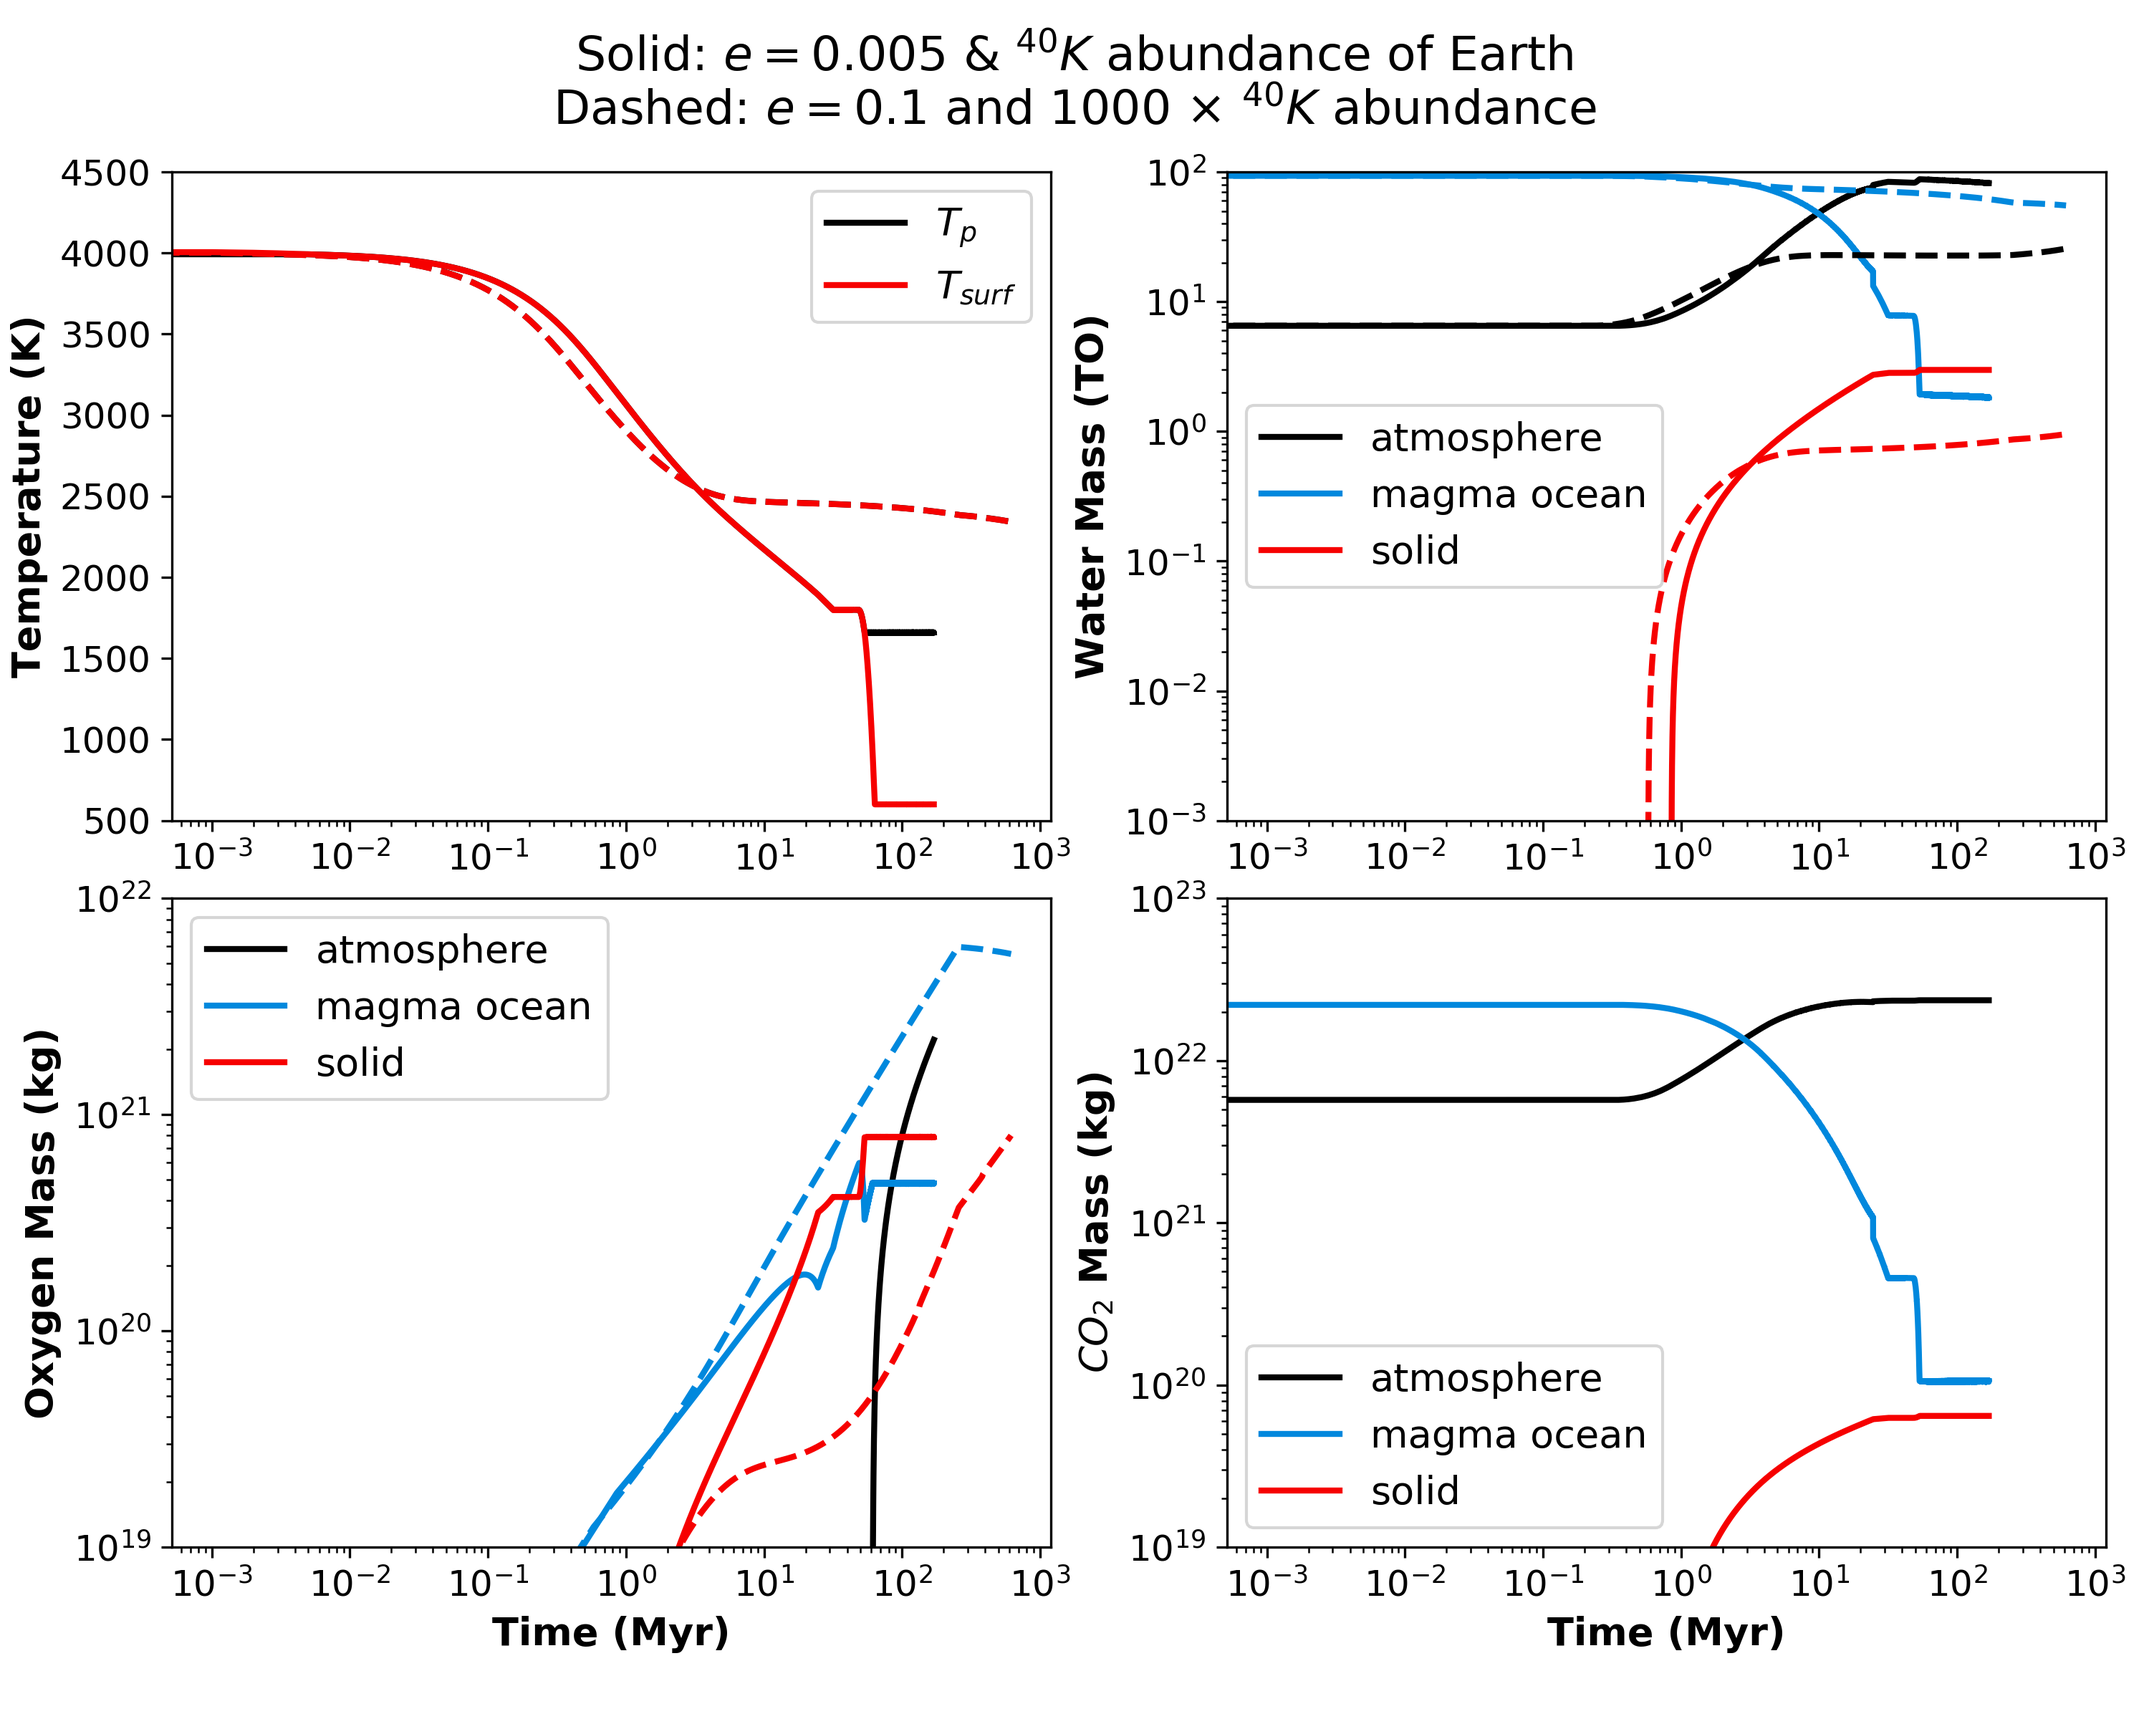
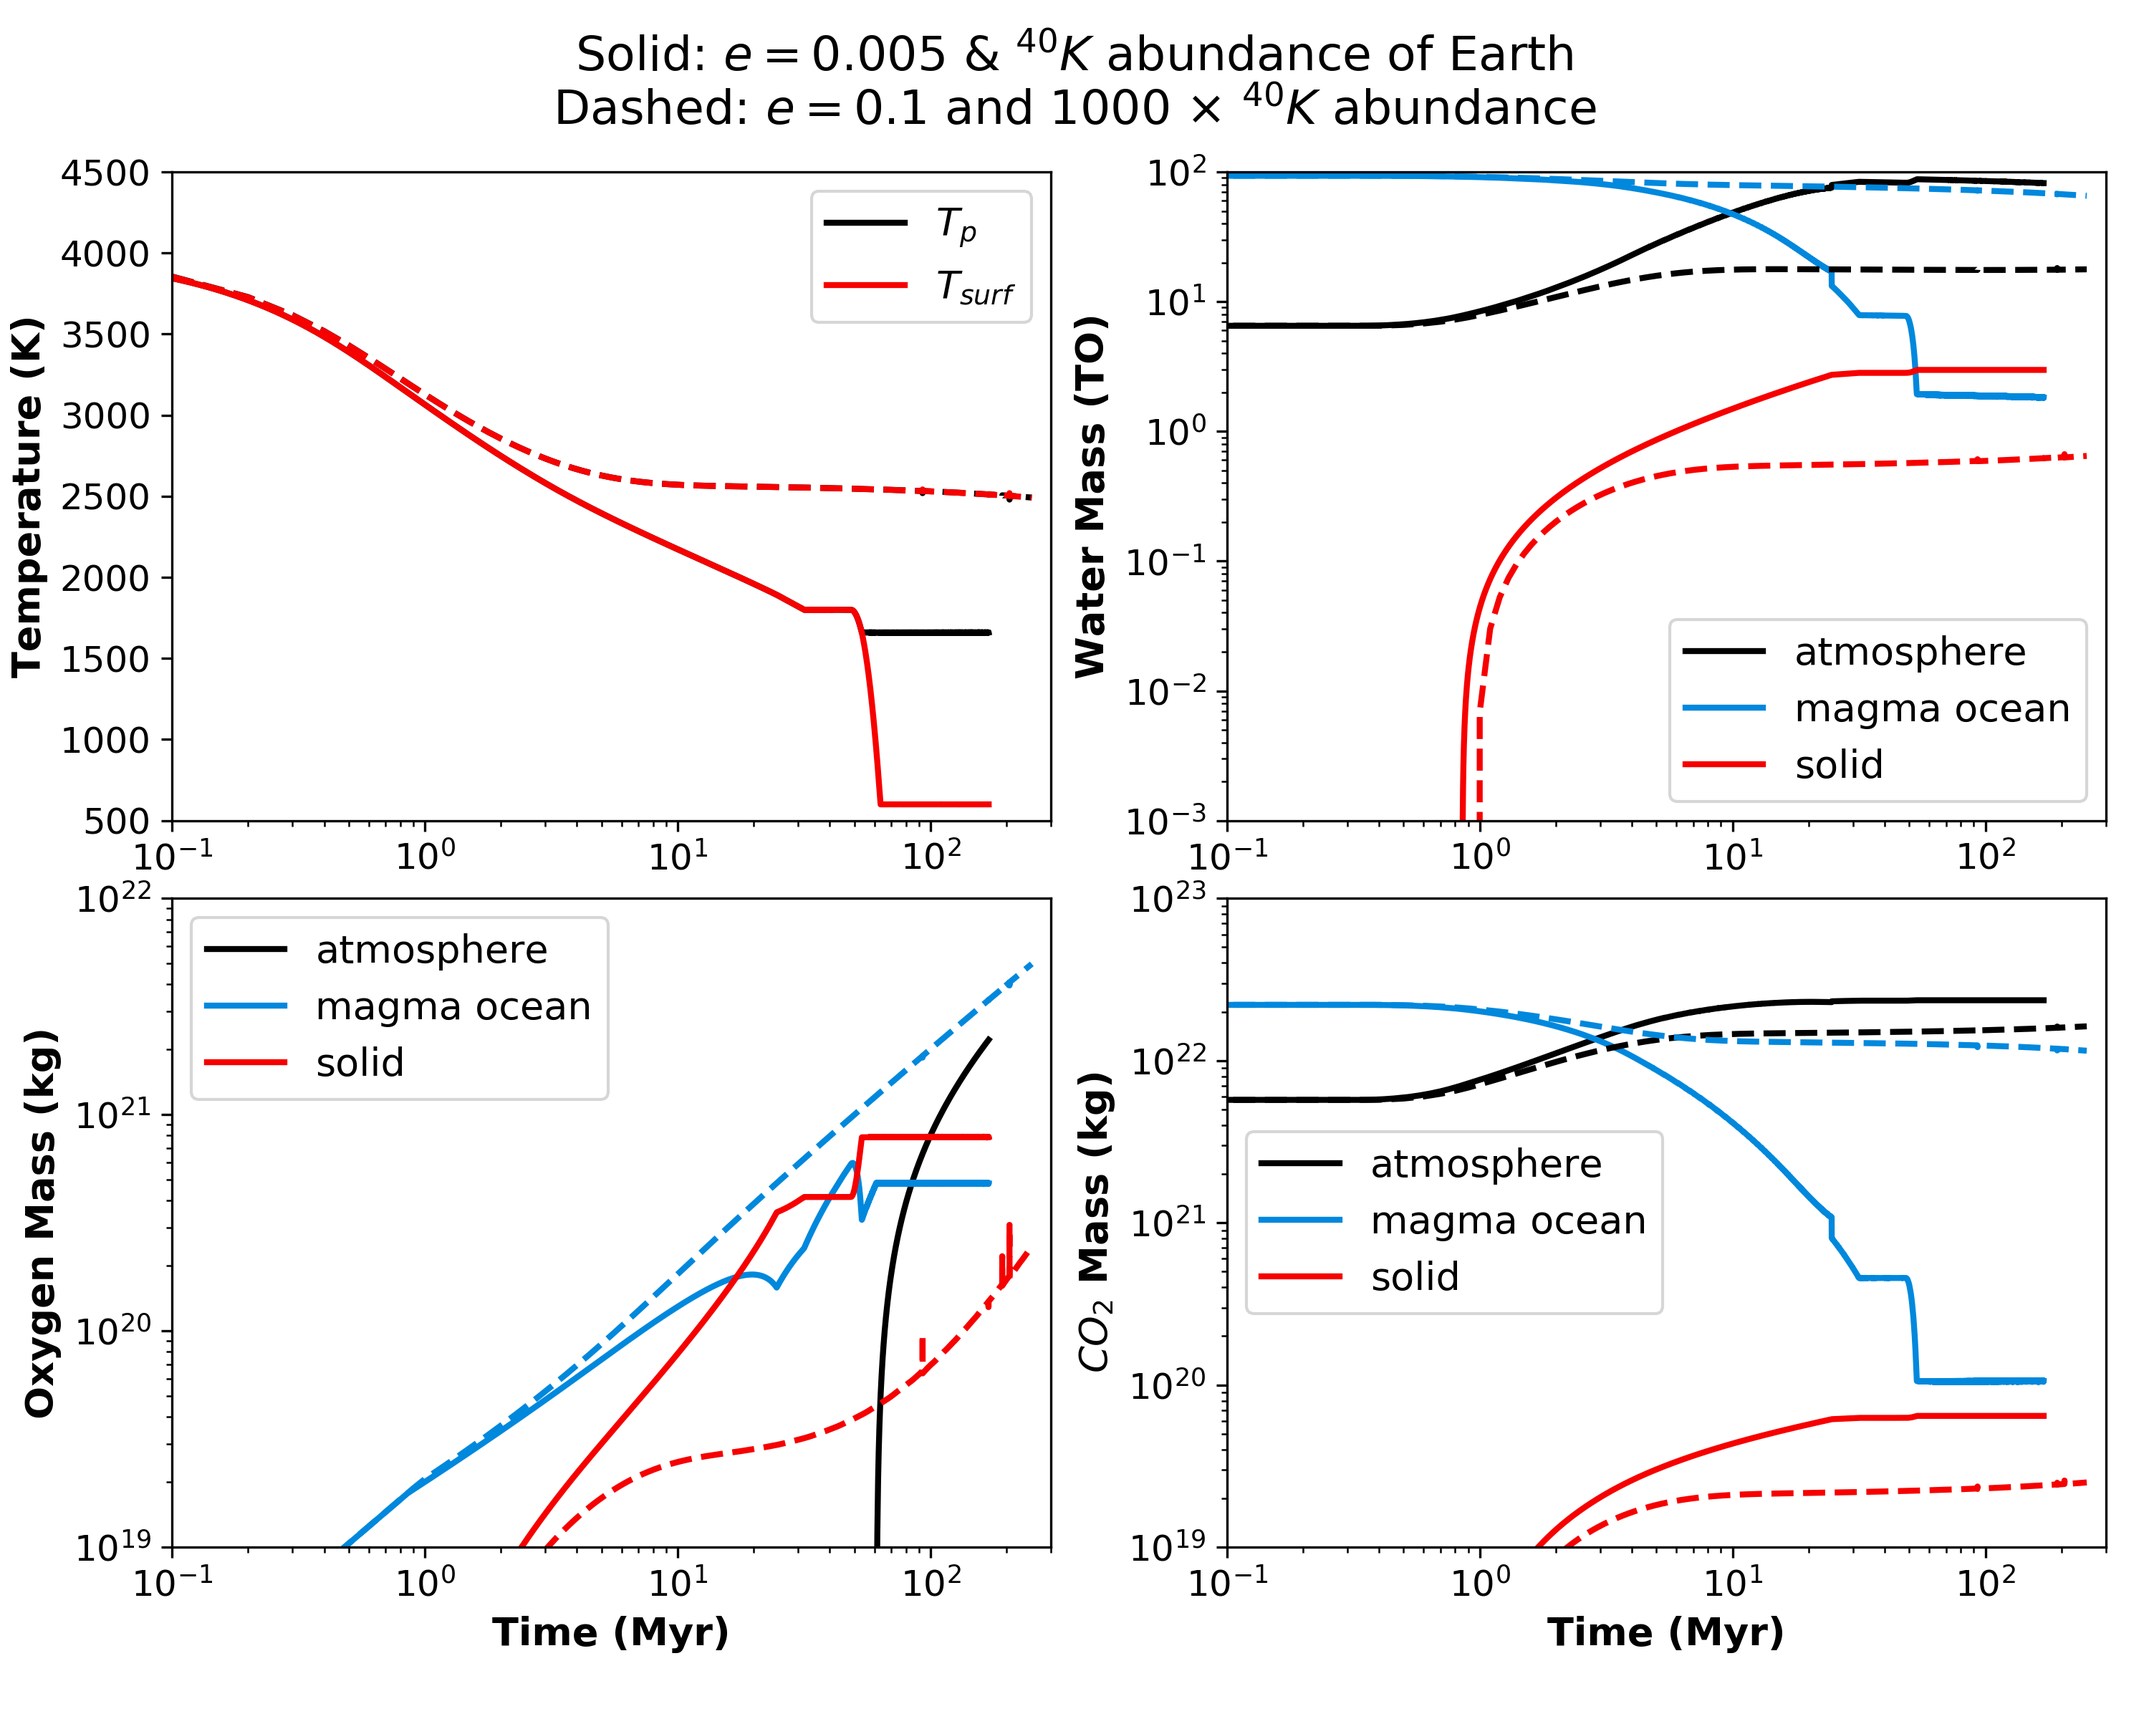
added 100TO heated runs with CO2

diff --git a/Fig_Trappist1e_Compare/plot_trappist_comp_volatile.py b/Fig_Trappist1e_Compare/plot_trappist_comp_volatile.py
@@ -60,6 +60,10 @@ M_O_mo_2      = data_2[:,6] # mass of oxygen in magma ocean + atmosphere (kg)
 M_O_sol_2     = data_2[:,7] # mass of oxygen in solid mantle (kg)
 Press_H2O_2   = data_2[:,8] # partial pressure water in atmopshere (bar)
 Press_O_2     = data_2[:,9] # partial pressure oxygen in atmosphere (bar)
+M_CO2_mo_2    = data_2[:,19] # mass of CO2 in magma ocean + atmosphere (kg)
+M_CO2_sol_2   = data_2[:,20] # mass of CO2 in solid mantle (kg)
+Press_CO2_2   = data_2[:,21] # pressure CO2 in atmopshere (bar)
+Frac_CO2_2    = data_2[:,22] # CO2 fraction in magma ocean
 
 n_time_1 = len(time_1)
 n_time_2 = len(time_2)
@@ -88,7 +92,7 @@ for i in range(n_time_1):
 for i in range(n_time_2):
     M_water_atm_2[i] = Press_H2O_2[i]*1e5 * 4 * np.pi * r_p**2 / g
     M_O_atm_2[i]     = Press_O_2[i]  *1e5 * 4 * np.pi * r_p**2 / g
-    # M_CO2_atm_2[i]   = Press_CO2_2[i]*1e5 * 4 * np.pi * r_p**2 / g
+    M_CO2_atm_2[i]   = Press_CO2_2[i]*1e5 * 4 * np.pi * r_p**2 / g
 
 
 ### Plot ###
@@ -107,7 +111,7 @@ ax1.plot(time_2*10**-6, Tsurf_2, linestyle='--', color=cmap(220))
 ax1.legend(loc='best', frameon=True)
 ax1.set_ylabel('Temperature (K)')
 ax1.set_xscale('log')
-# ax1.set_xlim([1,100])
+ax1.set_xlim([0.1,300])
 ax1.set_ylim([500,4500])
 
 # ---------------------------------------------------------------------------- #
@@ -147,9 +151,9 @@ ax7.plot(time_1*10**-6, M_CO2_atm_1, label='atmosphere',   color=cmap(0))
 ax7.plot(time_1*10**-6, M_CO2_mo_1-M_CO2_atm_1, label='magma ocean',   color=cmap(70))
 ax7.plot(time_1*10**-6, M_CO2_sol_1, label='solid',   color=cmap(220))
 
-# ax7.plot(time_2*10**-6, M_CO2_atm_2,  linestyle='--',  color=cmap(0))
-# ax7.plot(time_2*10**-6, M_CO2_mo_2-M_CO2_atm_2,  linestyle='--', color=cmap(70))
-# ax7.plot(time_2*10**-6, M_CO2_sol_2,  linestyle='--', color=cmap(220))
+ax7.plot(time_2*10**-6, M_CO2_atm_2,  linestyle='--',  color=cmap(0))
+ax7.plot(time_2*10**-6, M_CO2_mo_2-M_CO2_atm_2,  linestyle='--', color=cmap(70))
+ax7.plot(time_2*10**-6, M_CO2_sol_2,  linestyle='--', color=cmap(220))
 
 ax7.set_ylim([1e19,1e23])
 ax7.legend(loc='best', frameon=True)
